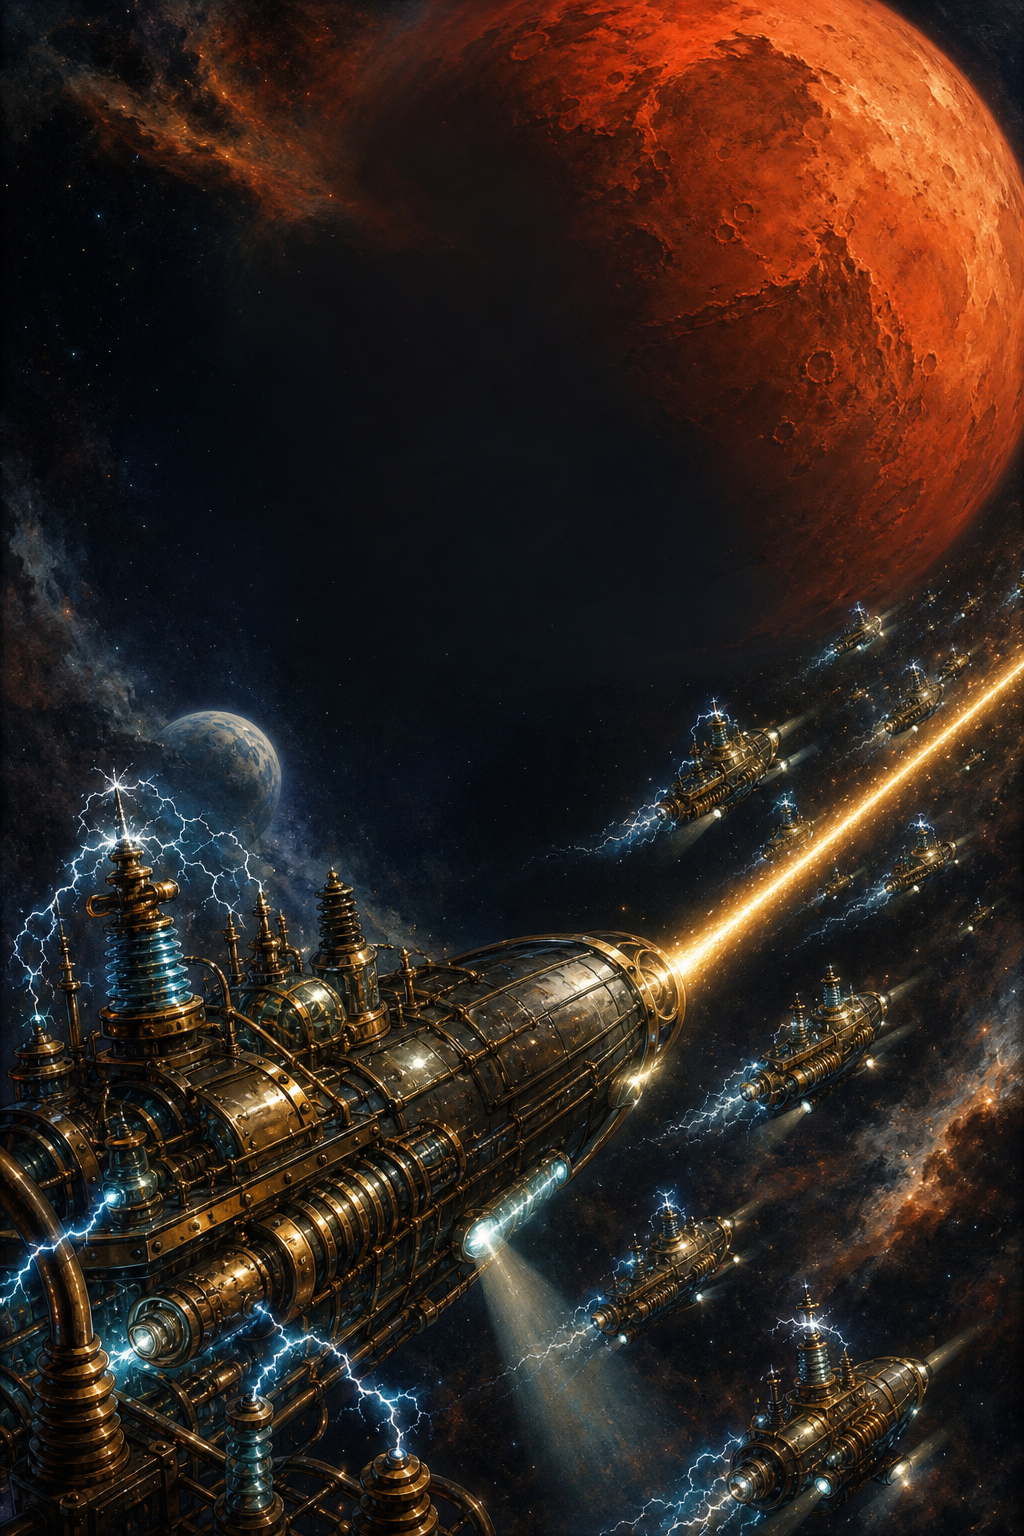
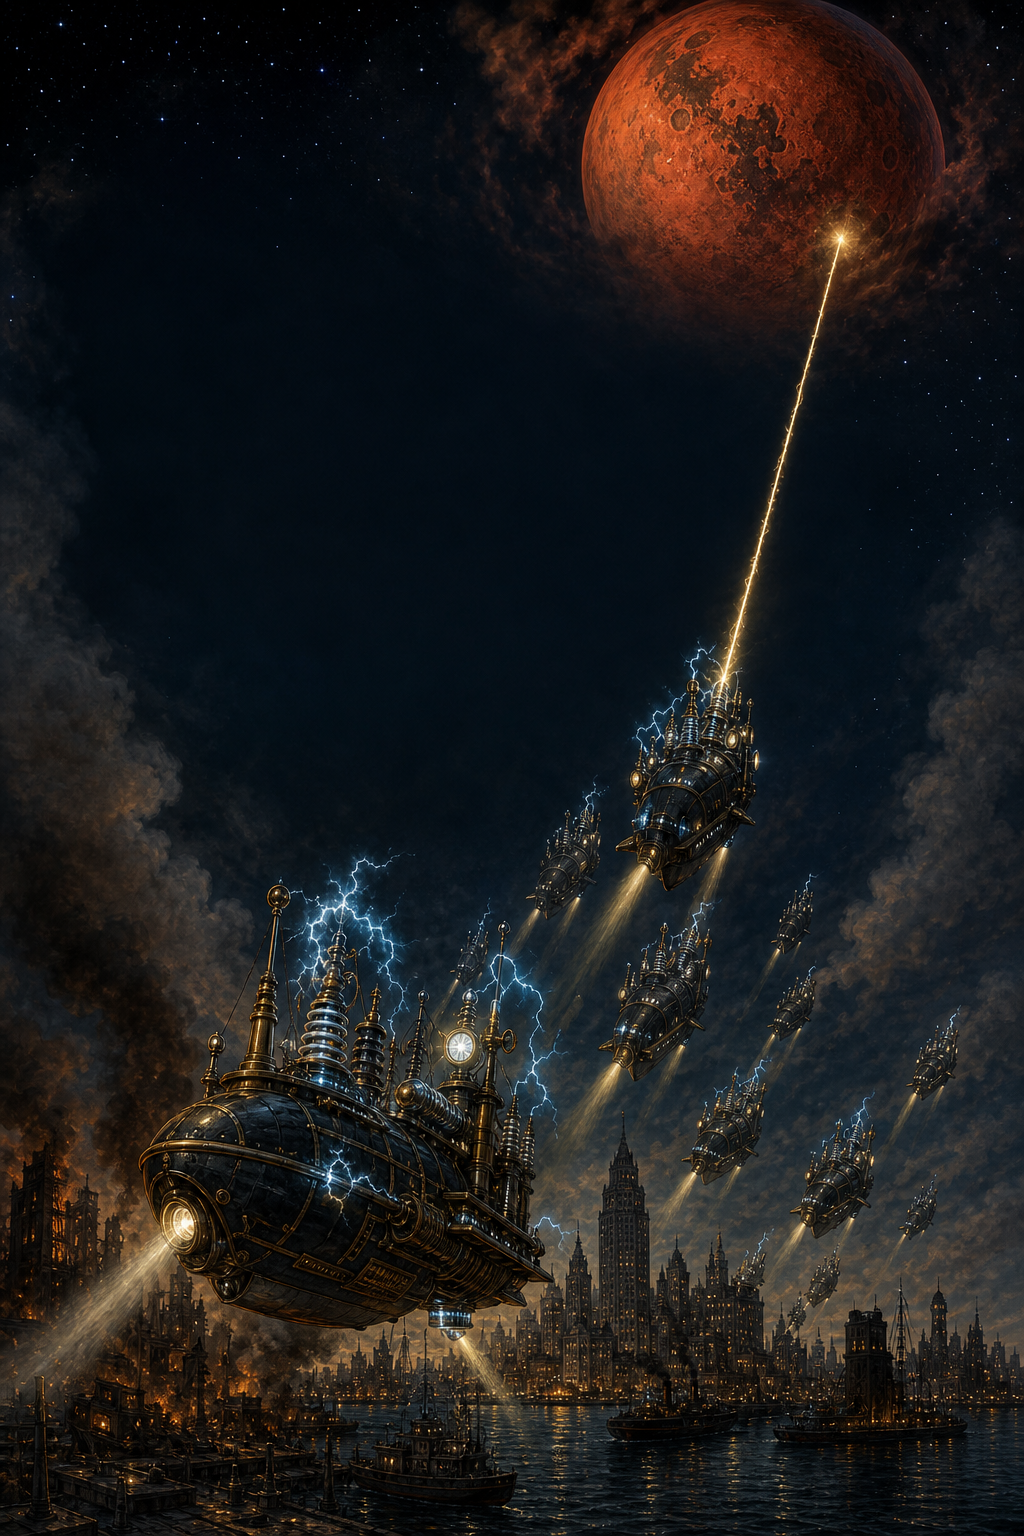
Refine Edison Mars cover policy

diff --git a/books/pg19141_edisons_conquest_of_mars/scripts/build_epub.js b/books/pg19141_edisons_conquest_of_mars/scripts/build_epub.js
@@ -25,7 +25,10 @@ const meta = {
   sourceId: 'Project Gutenberg #19141',
   originalPublication: '1898 年英文原著。本译本依据 Project Gutenberg #19141 公版文本制作。',
   description: '本书是美国早期科幻小说，承接威尔斯《世界大战》的火星入侵想象，写托马斯·爱迪生组织科学家与地球舰队，以电力飞船和分解射线反攻火星。本中文 EPUB 由 LifeBook 书坊 SaberOnGo 依据 Project Gutenberg #19141 公版英文原文新译制作，翻译时间为 2026-05-13。源文本在美国为公版，跨地区发行前仍应按目标国家或地区复核版权状态。',
-  rights: '源文本：Project Gutenberg #19141，美国公版文本。中文译本：LifeBook 书坊 SaberOnGo 译制，发行和授权由项目所有者决定。'
+  authorBio: '加勒特·普特南·瑟维斯（Garrett Putman Serviss，1851-1929）是美国天文学普及作家、记者和早期科幻小说作者，长期以通俗文章向大众介绍天文学和新科学。代表作包括《爱迪生征服火星》以及若干科学幻想和科学普及作品。',
+  creationBackground: '本书于 1898 年问世，常被视为承接威尔斯《世界大战》火星入侵想象的一部早期美国科幻续写。作品把十九世纪末的发明家崇拜、电学奇观、报刊连载节奏和星际战争幻想结合起来，塑造出由爱迪生和各国科学家率领地球舰队反攻火星的叙事。',
+  bookContext: '书中的科学设想属于十九世纪末大众科学语境，如以太、电力排斥、分解射线和电力飞船等，阅读时宜把它看作近代科学浪漫主义和早期太空歌剧的混合文本，而非现代硬科幻工程设定。',
+  rights: '源文本：Project Gutenberg #19141，美国公版文本。中文译文：LifeBook 书坊 SaberOnGo，发行和授权由项目所有者决定。'
 };
 const coverJpgPath = path.join(root, 'assets', 'cover.jpg');
 const coverPngPath = path.join(root, 'assets', 'cover.png');
@@ -288,13 +291,10 @@ function coverSvg() {
   <path d="M300 1765 L960 1185 L1015 1245 L360 1830 Z" fill="#d7e9f6" opacity="0.72"/>
   <path d="M942 1138 L1088 1265 L1022 1315 L890 1190 Z" fill="#f6d678"/>
   <path d="M360 1850 C560 1760 720 1810 890 1660 C1080 1490 1235 1565 1460 1380 L1460 2240 L360 2240 Z" fill="#6d251d" opacity="0.9"/>
-  <text x="800" y="360" text-anchor="middle" font-family="Noto Serif CJK SC, Source Han Serif SC, STSong, SimSun, serif" font-size="72" fill="#f4d891" letter-spacing="8">LifeBook 公版新译</text>
-  <text x="800" y="760" text-anchor="middle" font-family="Noto Serif CJK SC, Source Han Serif SC, STSong, SimSun, serif" font-weight="700" font-size="150" fill="#fff7df">爱迪生</text>
-  <text x="800" y="950" text-anchor="middle" font-family="Noto Serif CJK SC, Source Han Serif SC, STSong, SimSun, serif" font-weight="700" font-size="150" fill="#fff7df">征服火星</text>
-  <line x1="410" y1="1055" x2="1190" y2="1055" stroke="#f4d891" stroke-width="5" opacity="0.78"/>
-  <text x="800" y="1225" text-anchor="middle" font-family="Georgia, 'Times New Roman', serif" font-size="54" fill="#f4d891">Edison's Conquest of Mars</text>
-  <text x="800" y="1365" text-anchor="middle" font-family="Noto Serif CJK SC, Source Han Serif SC, STSong, SimSun, serif" font-size="58" fill="#fff7df">加勒特·P. 瑟维斯 著</text>
-  <text x="800" y="1455" text-anchor="middle" font-family="Noto Serif CJK SC, Source Han Serif SC, STSong, SimSun, serif" font-size="44" fill="#f4d891">LifeBook 书坊 SaberOnGo 译制</text>
+  <text x="800" y="760" text-anchor="middle" font-family="Noto Serif CJK SC, Source Han Serif SC, STSong, SimSun, serif" font-weight="700" font-size="130" fill="#fff7df">爱迪生征服火星</text>
+  <text x="800" y="940" text-anchor="middle" font-family="Georgia, 'Times New Roman', serif" font-size="54" fill="#f4d891">Edison's Conquest of Mars</text>
+  <text x="800" y="1080" text-anchor="middle" font-family="Noto Serif CJK SC, Source Han Serif SC, STSong, SimSun, serif" font-size="58" fill="#fff7df">加勒特·P. 瑟维斯 著</text>
+  <text x="800" y="1170" text-anchor="middle" font-family="Noto Serif CJK SC, Source Han Serif SC, STSong, SimSun, serif" font-size="48" fill="#f4d891">LifeBook 书坊 译制</text>
   <text x="800" y="2110" text-anchor="middle" font-family="Noto Serif CJK SC, Source Han Serif SC, STSong, SimSun, serif" font-size="44" fill="#f6ddb2">依据 Project Gutenberg #19141 公版原文制作</text>
 </svg>`;
 }
@@ -317,6 +317,12 @@ function bookInfoPage() {
 </dl>
 <h2>本书简介</h2>
 <p>${inline(meta.description)}</p>
+<h2>作者简介</h2>
+<p>${inline(meta.authorBio)}</p>
+<h2>创作背景</h2>
+<p>${inline(meta.creationBackground)}</p>
+<h2>关于本书</h2>
+<p>${inline(meta.bookContext)}</p>
 <h2>原书信息</h2>
 <p>${inline(meta.originalPublication)}</p>
 </section>`);
@@ -387,6 +393,7 @@ nav#toc li { margin: 0.45em 0; line-height: 1.45; }
 dl { margin: 0.5em 0 1.2em; }
 dt { font-weight: 600; margin-top: 0.65em; }
 dd { margin-left: 0; padding-left: 1.2em; line-height: 1.55; }
+.book-info dd { overflow-wrap: anywhere; }
 `;
 
 const packageOpf = `<?xml version="1.0" encoding="utf-8"?>
@@ -453,7 +460,12 @@ for (const ch of chapters) files.push({ name: `EPUB/${ch.href}`, data: ch.html }
 files.push({ name: 'EPUB/package.opf', data: packageOpf });
 
 const buffer = zipBuffer(files);
-fs.writeFileSync(path.join(outputDir, 'cover.svg'), coverSvg());
+const coverSvgOut = path.join(outputDir, 'cover.svg');
+if (coverImageName === 'cover.svg') {
+  fs.writeFileSync(coverSvgOut, coverSvg());
+} else if (fs.existsSync(coverSvgOut)) {
+  fs.rmSync(coverSvgOut);
+}
 if (coverImageName === 'cover.jpg') fs.copyFileSync(coverJpgPath, path.join(outputDir, 'cover.jpg'));
 if (coverImageName === 'cover.png') fs.copyFileSync(coverPngPath, path.join(outputDir, 'cover.png'));
 fs.writeFileSync(outFile, buffer);

diff --git a/books/pg19141_edisons_conquest_of_mars/qa/refinement/2026-05-14_cover_policy_rebuild_review.md b/books/pg19141_edisons_conquest_of_mars/qa/refinement/2026-05-14_cover_policy_rebuild_review.md
@@ -1,0 +1,46 @@
+# 2026-05-14 封面规则重做与书籍信息页复核
+
+status: "PASS"
+
+## 复核依据
+
+- `template/epub_pipeline/common/references/cover_design_policy.md`
+- `template/epub_pipeline/common/references/book_info_frontmatter_policy.md`
+- 本轮补充规则：中文题名一行、英文题名一行、作者、`LifeBook 书坊 译制`、底部公版来源；封面不写其他内容；个人名只在书籍信息页写详细。
+
+## 封面复核
+
+- 源图：`assets/cover_source_gpt_image.png`，GPT-IMAGE-2 生成。
+- 主视觉：纽约港废墟上方，Edison 式电力飞船舰队升空，火星压在天幕中，分解射线和电弧形成核心意象。
+- EPUB 封面：`assets/cover.jpg` / `output/cover.jpg`。
+- 尺寸与体积：1600 x 2400，456011 bytes，符合 2:3 和 200KB-800KB 建议区间。
+- 封面文字：只含 `爱迪生征服火星`、`Edison's Conquest of Mars`、`加勒特·P. 瑟维斯 著`、`LifeBook 书坊 译制`、`依据 Project Gutenberg #19141 公版原文制作`。
+- 违规文字检查：无 `LifeBook 公版新译`，无 `SaberOnGo`，无额外宣传语。
+
+## 书籍信息页复核
+
+- `book-info.xhtml` 标题为“书籍信息”。
+- 包含中文书名、英文原名、作者、译者、翻译时间、原文来源、公版说明、本书简介和原书信息。
+- 新增作者简介：记录 Garrett Putman Serviss 的国籍背景、生卒年、科普与科幻写作经历、代表作。
+- 新增创作背景：记录 1898 年、威尔斯《世界大战》火星入侵想象、美国发明家崇拜和电学奇观语境。
+- 新增“关于本书”：提示以十九世纪末大众科学语境理解以太、电力排斥、分解射线和电力飞船。
+- 译者写详细：`LifeBook 书坊 SaberOnGo`。
+
+## EPUB 工程复核
+
+- EPUB 解包：`EPUB/images/cover.jpg` 存在，456011 bytes。
+- EPUB 解包：无 `EPUB/images/cover.svg`。
+- OPF：`cover-image` 指向 `images/cover.jpg`，media-type 为 `image/jpeg`。
+- 目录：`nav.xhtml` 包含“书籍信息”。
+- 书籍信息页：含 `LifeBook 书坊 SaberOnGo`、作者简介和创作背景。
+
+## 校验
+
+- `npm run lint:publication`：PASS，硬错误 0。
+- `npm run build:epub`：PASS。
+- `npm run check:epub`：PASS，fatal 0，error 0，warning 0。
+- `node scripts/refinement_check.js`：PASS，出版范围 BOM 0，mojibake 0，中文异常空格 0。
+
+## Decision
+
+PASS。封面、书籍信息页、metadata、OPF 与 EPUB 产物已按最新规则闭环。

diff --git a/books/pg19141_edisons_conquest_of_mars/goal/GOAL_2026-05-14_cover_policy_rebuild.md b/books/pg19141_edisons_conquest_of_mars/goal/GOAL_2026-05-14_cover_policy_rebuild.md
@@ -1,0 +1,45 @@
+# /goal：按最新封面与书籍信息规则重做《爱迪生征服火星》封面并重建 EPUB
+
+status: "PASS"
+
+## 目标
+
+按 `template/epub_pipeline/common/references/cover_design_policy.md` 与 `book_info_frontmatter_policy.md`，以及本轮补充的封面文字规则，重新制作 `pg19141_edisons_conquest_of_mars` 的封面和书籍信息页，并重新生成 EPUB。
+
+## 封面规则
+
+- 主视觉必须使用 GPT-IMAGE-2 生成，并基于本书内容情境。
+- 图像模型只生成无字主视觉；封面文字后期确定性排版。
+- 中文大标题居中，尽量一行：`爱迪生征服火星`。
+- 英文标题居中，字体较小，尽量一行：`Edison's Conquest of Mars`。
+- 作者：`加勒特·P. 瑟维斯 著`。
+- 译制署名：`LifeBook 书坊 译制`，封面不写个人名。
+- 底部最多一行来源：`依据 Project Gutenberg #19141 公版原文制作`。
+- 除以上内容外，封面不写其他文字。
+- EPUB 内封面使用压缩 JPG，不把源 PNG 大图直接打入 EPUB。
+
+## 书籍信息页规则
+
+- 页面标题为“书籍信息”。
+- 包含中文书名、原书名、作者译名 + 原名、译者、翻译时间、原文来源、公版说明、本书简介。
+- 补充作者简介：国籍、生卒年、基本人生经历、代表作。
+- 补充本书创作基本背景和简短阅读背景。
+- 译者写详细格式：`LifeBook 书坊 SaberOnGo`。
+- 不写制作日志、prompt、QA 过程或 AI 自述。
+
+## 完成记录
+
+- GPT-IMAGE-2 源图：`assets/cover_source_gpt_image.png`。
+- 生成 prompt 记录：`assets/cover_source_gpt_image_prompt.txt`。
+- EPUB 封面：`assets/cover.jpg`，1600 x 2400，456011 bytes。
+- EPUB 内部封面：`EPUB/images/cover.jpg`，456011 bytes。
+- EPUB 内部无 `EPUB/images/cover.svg`。
+- OPF `cover-image` 指向 `images/cover.jpg`，media-type 为 `image/jpeg`。
+- `book-info.xhtml` 含译者、作者简介、创作背景和关于本书的简短阅读背景。
+- `npm run lint:publication`：PASS，硬错误 0。
+- `npm run check:epub`：PASS，fatal 0，error 0，warning 0。
+- `node scripts/refinement_check.js`：PASS，出版范围 BOM 0，mojibake 0，中文异常空格 0。
+
+## Decision
+
+PASS。封面、书籍信息页和 EPUB 输出均已按最新规则重建。

diff --git a/books/pg19141_edisons_conquest_of_mars/output/final_manifest.md b/books/pg19141_edisons_conquest_of_mars/output/final_manifest.md
@@ -8,7 +8,12 @@ status: "PASS"
 - `output/爱迪生征服火星.epub`
 - `preproduction/stage2_sample/sample_book.epub`
 - 封面源图：`assets/cover_source_gpt_image.png`
+- 封面生成 prompt：`assets/cover_source_gpt_image_prompt.txt`
 - EPUB 封面图：`assets/cover.jpg` / `output/cover.jpg`
+- EPUB 文件体积：620034 bytes
+- EPUB 封面体积：456011 bytes
[2 lines of base64/hex data omitted]
 - 主标题：`爱迪生征服火星`
 - 译者：`LifeBook 书坊 SaberOnGo`
 
@@ -18,9 +23,11 @@ status: "PASS"
 - `output/epubcheck.json`: PASS，fatal 0，error 0，warning 0。
 - `qa/refinement/refinement_check.json`: PASS，出版范围 BOM 0，mojibake 0，中文异常空格 0。
 - `qa/refinement/full_book_literary_review_2026-05-13.md`: PASS，已覆盖全书信达雅和重点高潮段落复查。
+- `qa/refinement/2026-05-14_cover_policy_rebuild_review.md`: PASS，已按最新封面规则重做 GPT-IMAGE-2 封面，并补齐书籍信息页作者简介与创作背景。
 - `qa/refinement/2026-05-13_gpt_image_cover_and_book_info_review.md`: PASS，已覆盖 GPT-IMAGE 封面、书籍信息页、EPUB 内 cover-image 和最终体积复核。
 - `qa/refinement/2026-05-13_publication_grade_title_terms_paragraphs.md`: PASS，已覆盖标题工程、术语/译注统一、章节精修和长段落处理。
-- EPUB 解包抽查：`EPUB/images/cover.jpg` 为 286751 bytes，OPF `cover-image` 指向 `images/cover.jpg`，书籍首页为“书籍信息”。
+- EPUB 解包抽查：`EPUB/images/cover.jpg` 为 456011 bytes，OPF `cover-image` 指向 `images/cover.jpg`，EPUB 内无 `cover.svg`，书籍首页为“书籍信息”。
+- 书籍信息页抽查：含 `LifeBook 书坊 SaberOnGo`、作者简介、创作背景和关于本书的简短阅读背景。
 - 长段落复扫：普通叙述段 `gt300=0`，`gt500=0`，最长 300 字。
 
 ## Source And Rights

diff --git a/books/pg19141_edisons_conquest_of_mars/goal/GOAL_2026-05-13_gpt_image_cover_book_info_fullbook_refinement.md b/books/pg19141_edisons_conquest_of_mars/goal/GOAL_2026-05-13_gpt_image_cover_book_info_fullbook_refinement.md
@@ -12,7 +12,7 @@ status: "PASS"
 - 译者署名：`LifeBook 书坊 SaberOnGo`
 - 图像生成：使用 GPT-IMAGE 生成符合本书情节的源图，不再使用脚本绘制的几何 SVG 作为最终封面主体。
 - EPUB 内封面：使用压缩后的 `assets/cover.jpg`，控制体积，不把大源图直接打入 EPUB。
-- 仍保留脚本生成的 `output/cover.svg` 作为工程备用产物，但最终 EPUB 应优先引用 `cover.jpg`。
+- 历史记录：本轮曾保留脚本生成的 `output/cover.svg` 作为工程备用产物；此规则已被 2026-05-14 最新封面规则取代，最终输出不再保留 `output/cover.svg`。
 
 ## 参考经验
 
@@ -35,10 +35,10 @@ status: "PASS"
 - GPT-IMAGE 源图已保存：`assets/cover_source_gpt_image.png`。
 - EPUB 封面图已保存：`assets/cover.jpg`，约 286KB，符合模板 200KB-800KB 建议区间。
 - 封面内容与本书情节相符：火星、地球、爱迪生式电力飞船舰队、分解射线、电气火花。
-- 封面可见文字包含：`爱迪生征服火星`、`Edison's Conquest of Mars`、`加勒特·P. 瑟维斯 著`、`LifeBook 书坊 SaberOnGo 译制`、`Project Gutenberg #19141`。
+- 历史记录：本轮封面可见文字曾包含个人名；此规则已被 2026-05-14 最新封面规则取代，最终封面只包含书名、原名、作者、`LifeBook 书坊 译制` 和一句公版来源说明。
 - 书籍首页已统一为“书籍信息”，并包含译者、译制时间、公版来源和公版说明。
 - 重新构建后 EPUB 内封面使用 `cover.jpg`，不是 SVG 占位封面。
-- 解包抽查：`EPUB/images/cover.jpg` 为 286751 bytes，OPF `cover-image` 指向 `images/cover.jpg`。
+- 历史记录：本轮解包抽查的旧封面尺寸记录已作废；2026-05-14 重制后 `EPUB/images/cover.jpg` 为 456011 bytes，OPF `cover-image` 指向 `images/cover.jpg`。
 - 校验状态：publication lint PASS；EPUBCheck fatal 0，error 0，warning 0；refinement check 出版范围 BOM 0，mojibake 0，中文异常空格 0。
 
 ## Decision

diff --git a/books/pg19141_edisons_conquest_of_mars/preproduction/stage1/production_spec.md b/books/pg19141_edisons_conquest_of_mars/preproduction/stage1/production_spec.md
@@ -14,8 +14,10 @@ status: "PASS"
 
 ## EPUB Structure
 
-- 封面页：使用 GPT-IMAGE 生成的本书情节封面图，工程源图保留为 `assets/cover_source_gpt_image.png`，EPUB 内封面使用压缩后的 `assets/cover.jpg`。
-- 书籍信息页：说明中文书名、原名、作者、译者、来源和公版状态。
+- 封面页：使用 GPT-IMAGE-2 生成的本书情节封面图，工程源图保留为 `assets/cover_source_gpt_image.png`，EPUB 内封面使用压缩后的 `assets/cover.jpg`。
+- 封面主视觉依据：纽约港废墟上方，Edison 式电力飞船舰队升空，火星压在天幕中，分解射线与电弧形成早期科学幻想的核心意象。
+- 封面文字：只包含 `爱迪生征服火星`、`Edison's Conquest of Mars`、`加勒特·P. 瑟维斯 著`、`LifeBook 书坊 译制`、底部 `依据 Project Gutenberg #19141 公版原文制作`。
+- 书籍信息页：说明中文书名、原名、作者、译者、译制时间、来源、公版状态、本书简介、作者简介、创作背景和简短阅读背景。
 - 正文：`chapters/final/001_front_matter.md` 至 `019_chapter_xviii.md`。
 - 导航：使用 `metadata/chapter_title_map.yaml` 中的短标题，卷首、第一章至第十八章。
 

diff --git a/books/pg19141_edisons_conquest_of_mars/goal/GOAL_2026-05-13_refinement_literary_metadata_cover.md b/books/pg19141_edisons_conquest_of_mars/goal/GOAL_2026-05-13_refinement_literary_metadata_cover.md
@@ -9,7 +9,7 @@ status: "PASS"
 ## 固定要求
 
 - 译者名统一为 `LifeBook 书坊 SaberOnGo`。
-- 封面必须按本书模板生成，并在可见封面署名处写入 `LifeBook 书坊 SaberOnGo 译制`。
+- 历史记录：本轮当时要求封面署名写入“LifeBook 书坊 + 个人名”的译制署名；此规则已被 2026-05-14 最新封面规则取代，最终封面只写 `LifeBook 书坊 译制`。
 - 书籍首页信息页必须包含中文书名、英文原名、作者、译者、翻译时间、Project Gutenberg 来源 URL、公版说明、本书简介和原书信息。
 - EPUB OPF 主标题必须是中文书名《爱迪生征服火星》，英文原名只能作为原书信息、来源信息或辅助 metadata，不得覆盖主标题。
 - 重要段落和高潮段落必须逐项检查，包括第一章灾后与反击动员、第七章俘获火星人、第十三章艾娜身世与克什米尔诗句、第十五至十七章洪水、首都、宫殿战斗和谈判、第十八章返航与结尾。
@@ -28,7 +28,7 @@ status: "PASS"
 ## 完成定义
 
 - `scripts/build_epub.js`、`metadata/book.yaml`、相关制作记录中的译者署名均为 `LifeBook 书坊 SaberOnGo`。
-- 新生成 `output/cover.svg`、`output/book.epub`、`output/爱迪生征服火星.epub` 和 `preproduction/stage2_sample/sample_book.epub`。
+- 历史记录：本轮曾生成 `output/cover.svg`；此产物已被 2026-05-14 最新封面规则取代，最终 EPUB 使用 `output/cover.jpg`，且不再保留 `output/cover.svg`。
 - `output/epubcheck.json` 显示 title 为 `爱迪生征服火星`，contributors 包含 `LifeBook 书坊 SaberOnGo`。
 - `node scripts/publication_lint.js --target=zh-Hans --write-report` 无 hard errors。
 - `npm run check:epub` fatal/error/warning 均为 0。

diff --git a/books/pg19141_edisons_conquest_of_mars/qa/refinement/2026-05-13_gpt_image_cover_and_book_info_review.md b/books/pg19141_edisons_conquest_of_mars/qa/refinement/2026-05-13_gpt_image_cover_and_book_info_review.md
@@ -3,6 +3,8 @@
 status: "PASS"
 date: "2026-05-13"
 
[phone redacted] 更新：本文件记录的是前一版 GPT-IMAGE 封面复核。最新封面已按 `cover_design_policy.md` 补充规则重做，详见 `qa/refinement/2026-05-14_cover_policy_rebuild_review.md`。
+
 ## 复核目标
 
 本轮针对用户指出的封面质量差距，按 `pg20923_a_negro_explorer_at_the_north_pole`、`pg10966_the_ghost_pirates` 的制作经验补齐栅格封面，并重新检查书籍信息页、译者署名、EPUB 封面引用和全书精修闭环。
@@ -33,7 +35,7 @@ date: "2026-05-13"
 - 构建脚本优先读取 `assets/cover.jpg`。
 - EPUB 应包含 `EPUB/cover.xhtml`、`EPUB/book-info.xhtml`、`EPUB/images/cover.jpg`。
 - OPF manifest 中 `cover-image` 应指向 `images/cover.jpg` 且带 `properties="cover-image"`。
-- 解包抽查：`EPUB/images/cover.jpg` 为 286751 bytes；OPF `cover-image` 指向 `images/cover.jpg`，media-type 为 `image/jpeg`。
+- 历史记录：本轮解包抽查的旧封面尺寸记录已作废；2026-05-14 重制后以最新封面规则和 `qa/refinement/2026-05-14_cover_policy_rebuild_review.md` 为准。
 - 解包抽查：`nav.xhtml` 和 `book-info.xhtml` 均显示“书籍信息”；`book-info.xhtml` 含 `LifeBook 书坊 SaberOnGo`。
 - `npm run lint:publication`：PASS，硬错误 0。
 - `npm run check:epub`：PASS，fatal 0，error 0，warning 0。

diff --git a/books/pg19141_edisons_conquest_of_mars/preproduction/stage2_sample/sample_review.md b/books/pg19141_edisons_conquest_of_mars/preproduction/stage2_sample/sample_review.md
@@ -8,6 +8,8 @@ sample_basis: "cover, book-info, 001_front_matter.md, 002_chapter_i.md"
 - 标题策略：PASS。目录短题名为“卷首”“第一章”等，未添加原文不支持的概括标题。
 - 中文排版：PASS。段落缩进、标题层级和中文标点符合目标语言规则。
 - 元数据：PASS。书名、作者、译者 `LifeBook 书坊 SaberOnGo`、来源和 rights 已写入构建脚本与 `metadata/book.yaml`。
+- 封面：PASS。2026-05-14 重做为 GPT-IMAGE-2 主视觉 + 确定性文字排版；封面仅保留中文题名、英文题名、作者、`LifeBook 书坊 译制` 和底部公版来源。
+- 书籍信息页：PASS。已包含作者简介、创作背景和简短阅读背景，目录入口为“书籍信息”。
 - 文本质量：PASS。样章已通过章节 QA，第一章经出版 lint 修正分号阈值问题。
 
 ## Decision

diff --git a/books/pg19141_edisons_conquest_of_mars/qa/refinement/full_book_literary_review_2026-05-13.md b/books/pg19141_edisons_conquest_of_mars/qa/refinement/full_book_literary_review_2026-05-13.md
@@ -45,7 +45,7 @@ translator_credit: "LifeBook 书坊 SaberOnGo"
 
 ## 发布信息检查
 
-- 封面署名：`LifeBook 书坊 SaberOnGo 译制`。
+- 封面署名历史记录：本轮曾使用“LifeBook 书坊 + 个人名”的译制署名；此规则已被 2026-05-14 最新封面规则取代，最终封面只写 `LifeBook 书坊 译制`。
 - 书籍信息页译者：`LifeBook 书坊 SaberOnGo`。
 - `metadata/book.yaml` contributor：`LifeBook 书坊 SaberOnGo`。
 - OPF 主标题策略：只保留中文 `dc:title` 作为主标题，英文原名放入书籍信息页和 `schema:translationOfWork`。